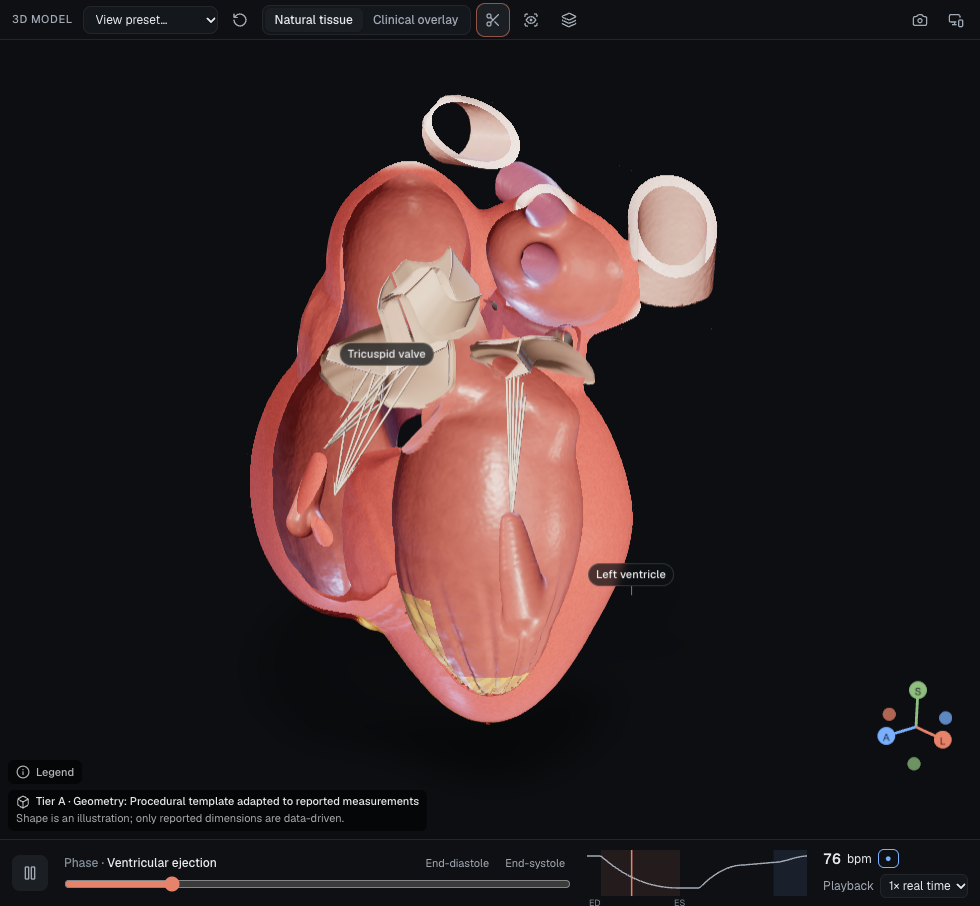
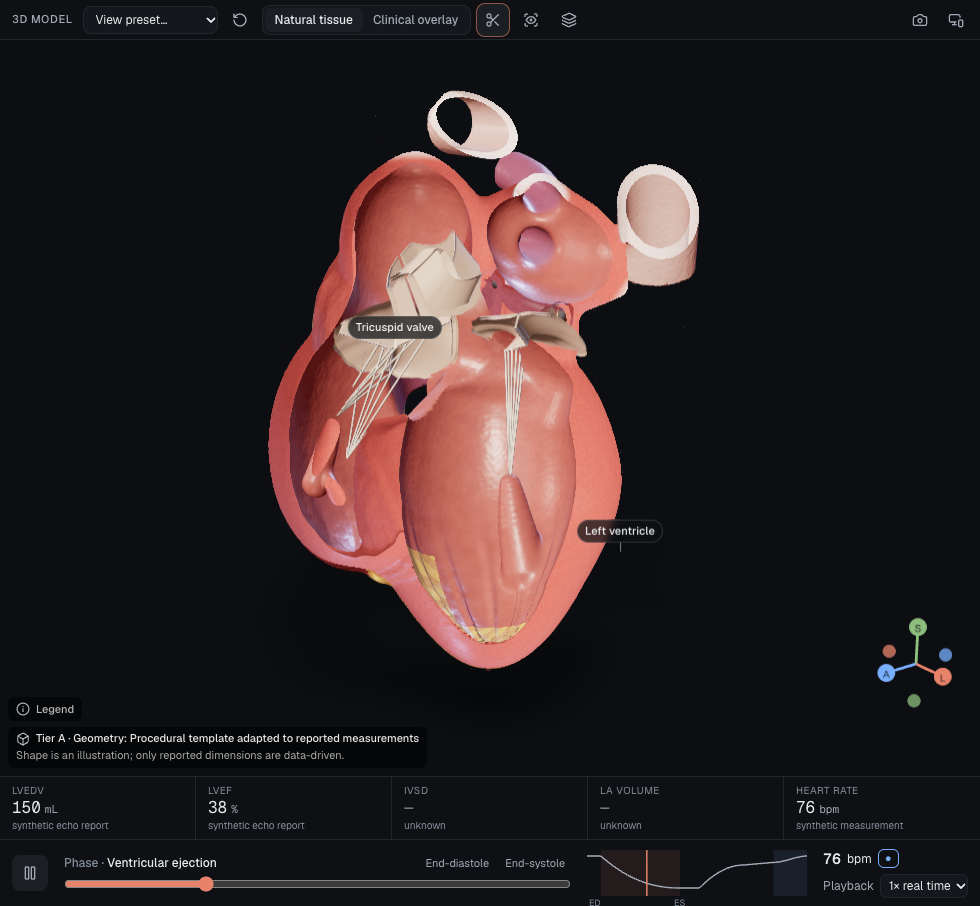
Professional design phase 2: metrics, collapsible inspector, camera focus
- Heart metric strip with the source of every number (CT segmentation volumes
  and derived LV mass for Tier B; reported values for Tier A, unknown as —)
- Inspector can be hidden from the app bar to widen the 3D view
- Brain: selecting a structure in the list turns the camera to it and makes
  the cortex see-through for deep structures
- e2e for the metrics, the inspector toggle and the auto see-through cortex

diff --git a/src/brain/BrainCanvas.tsx b/src/brain/BrainCanvas.tsx
@@ -1,8 +1,8 @@
 "use client";
 // 3D brain from the segmentation. Browser-only (next/dynamic, ssr: false).
-import { Canvas, type ThreeEvent } from "@react-three/fiber";
+import { Canvas, useFrame, useThree, type ThreeEvent } from "@react-three/fiber";
 import { GizmoHelper, GizmoViewport, OrbitControls } from "@react-three/drei";
-import { useEffect, useMemo } from "react";
+import { useEffect, useMemo, useRef } from "react";
 import * as THREE from "three";
 import { useBrain } from "./brainStore";
 import { appToVoxel, voxelToApp, type Vec3 } from "@/imaging/sliceGeometry";
@@ -124,6 +124,53 @@ function SlicePlanes({ data }: { data: BrainData }) {
   );
 }
 
+/** Centroid (app frame, cm) of every vertex carrying a structure's region id. */
+function regionCentroid(data: BrainData, index: number): THREE.Vector3 | null {
+  const c = new THREE.Vector3();
+  let n = 0;
+  for (const m of data.meshes) {
+    const reg = m.geometry.getAttribute("_region") as THREE.BufferAttribute;
+    const pos = m.geometry.getAttribute("position") as THREE.BufferAttribute;
+    for (let i = 0; i < reg.count; i++) {
+      if (Math.round(reg.getX(i) * 255) !== index) continue;
+      c.x += pos.getX(i); c.y += pos.getY(i); c.z += pos.getZ(i); n++;
+    }
+  }
+  return n ? c.divideScalar(n) : null;
+}
+
+/** Animates the orbit camera to look at a structure chosen in the list, from the side it is on. */
+function CameraFocus({ data }: { data: BrainData }) {
+  const request = useBrain((s) => s.focusRequest);
+  const { camera, controls } = useThree() as unknown as { camera: THREE.PerspectiveCamera; controls: { target: THREE.Vector3; update: () => void } | null };
+  const anim = useRef<{ fromPos: THREE.Vector3; toPos: THREE.Vector3; fromTarget: THREE.Vector3; toTarget: THREE.Vector3; t: number } | null>(null);
+  useEffect(() => {
+    if (!request || !controls) return;
+    const target = regionCentroid(data, request.index);
+    if (!target) return;
+    const st = data.manifest.structures[request.index - 1];
+    // look from outside the structure's side: lateral for one hemisphere, else from the structure's direction
+    const dir = target.clone();
+    if (st?.hemisphere === "left") dir.x += 6;
+    if (st?.hemisphere === "right") dir.x -= 6;
+    if (dir.lengthSq() < 1e-6) dir.set(0, 0.3, 1);
+    dir.normalize();
+    const distance = camera.position.distanceTo(controls.target);
+    anim.current = { fromPos: camera.position.clone(), toPos: target.clone().addScaledVector(dir, distance), fromTarget: controls.target.clone(), toTarget: target, t: 0 };
+  }, [request, data, camera, controls]);
+  useFrame((_, dt) => {
+    const a = anim.current;
+    if (!a || !controls) return;
+    a.t = Math.min(1, a.t + dt / 0.7);
+    const k = 1 - Math.pow(1 - a.t, 3);
+    camera.position.lerpVectors(a.fromPos, a.toPos, k);
+    controls.target.lerpVectors(a.fromTarget, a.toTarget, k);
+    controls.update();
+    if (a.t >= 1) anim.current = null;
+  });
+  return null;
+}
+
 export default function BrainCanvas({ data }: { data: BrainData }) {
   return (
     <Canvas
@@ -140,6 +187,7 @@ export default function BrainCanvas({ data }: { data: BrainData }) {
       <BrainMeshes data={data} />
       <SlicePlanes data={data} />
       <OrbitControls makeDefault enableDamping dampingFactor={0.12} minDistance={10} maxDistance={90} />
+      <CameraFocus data={data} />
       <GizmoHelper alignment="bottom-right" margin={[56, 56]}>
         <GizmoViewport axisColors={["#e8836b", "#8fbf7f", "#79b0ff"]} labels={["L", "S", "A"]} labelColor="#0b0d10" axisHeadScale={0.9} />
       </GizmoHelper>

diff --git a/src/components/workspace/HeartMetrics.tsx b/src/components/workspace/HeartMetrics.tsx
@@ -1,0 +1,62 @@
+"use client";
+// Key numbers under the 3D heart, each with where it comes from. Tier B: the CT segmentation's own
+// volumes; Tier A: the record's reported values. Unknown is shown as unknown, never as a default.
+import type { PatientEntry } from "@/lib/patients";
+import type { HeartAssetSpec } from "@/scene/asset-adapters/registry";
+
+interface Metric { label: string; value: string | null; unit: string; source: string }
+
+const MYOCARDIUM_G_PER_ML = 1.05;
+
+function fromCt(spec: HeartAssetSpec): Metric[] {
+  const st = Object.fromEntries((spec.manifest.imaging?.structures ?? []).map((s) => [s.key, s.volumeMl]));
+  const src = "CT segmentation · phase unknown";
+  const v = (k: string) => (st[k] != null ? st[k].toFixed(1) : null);
+  return [
+    { label: "LV cavity", value: v("lv_cavity"), unit: "mL", source: src },
+    { label: "LV mass", value: st.lv_myocardium != null ? (st.lv_myocardium * MYOCARDIUM_G_PER_ML).toFixed(0) : null, unit: "g", source: `derived: myocardium × ${MYOCARDIUM_G_PER_ML} g/mL` },
+    { label: "RV label", value: v("rv"), unit: "mL", source: "may include RV wall" },
+    { label: "Left atrium", value: v("la"), unit: "mL", source: src },
+    { label: "Right atrium", value: v("ra"), unit: "mL", source: src },
+  ];
+}
+
+function fromRecord(entry: PatientEntry): Metric[] {
+  const p = entry.patient;
+  const obs = (path: string) => {
+    const o = p.observations[`observations.${path}`];
+    return o && o.status === "ok" && o.value !== null ? { value: String(o.value), source: o.method ?? o.source ?? "reported" } : null;
+  };
+  const ef = obs("lvEjectionFraction");
+  const efDerived = p.derived.find((d) => d.id === "lvEfFromVolumes");
+  const metric = (label: string, path: string, unit: string): Metric => {
+    const o = obs(path);
+    return { label, value: o?.value ?? null, unit, source: o?.source ?? "not reported" };
+  };
+  return [
+    metric("LVEDV", "lvEndDiastolicVolume", "mL"),
+    ef ? { label: "LVEF", value: ef.value, unit: "%", source: ef.source }
+      : { label: "LVEF", value: efDerived ? String(efDerived.value) : null, unit: "%", source: efDerived ? "derived from volumes" : "not reported" },
+    metric("IVSd", "ivsThickness", "mm"),
+    metric("LA volume", "laVolume", "mL"),
+    metric("Heart rate", "heartRate", "bpm"),
+  ];
+}
+
+export function HeartMetrics({ entry, spec }: { entry: PatientEntry; spec: HeartAssetSpec }) {
+  const metrics = spec.manifest.imaging ? fromCt(spec) : fromRecord(entry);
+  return (
+    <div className="grid shrink-0 grid-cols-3 divide-x divide-line border-t border-line bg-panel md:grid-cols-5" data-testid="heart-metrics">
+      {metrics.map((m) => (
+        <div key={m.label} className="min-w-0 px-3 py-1.5" title={`${m.label}: ${m.source}`}>
+          <p className="truncate text-[10px] uppercase tracking-wider text-faint">{m.label}</p>
+          <p className="num text-[16px] leading-tight text-ink">
+            {m.value ?? <span className="text-faint">—</span>}
+            {m.value && <span className="ml-1 text-[11px] text-muted">{m.unit}</span>}
+          </p>
+          <p className="truncate text-[10px] text-faint">{m.value ? m.source : "unknown"}</p>
+        </div>
+      ))}
+    </div>
+  );
+}

diff --git a/src/components/workspace/Workspace.tsx b/src/components/workspace/Workspace.tsx
@@ -1,7 +1,7 @@
 "use client";
 import { useEffect } from "react";
 import dynamic from "next/dynamic";
-import { Brain, HeartPulse, Moon, ShieldCheck, Sun } from "lucide-react";
+import { Brain, HeartPulse, Moon, PanelRightClose, PanelRightOpen, ShieldCheck, Sun } from "lucide-react";
 import { useApp, type Module } from "@/state/store";
 import { loadSamples } from "@/lib/session";
 import { PatientLibrary } from "../patient/PatientLibrary";
@@ -26,6 +26,7 @@ export default function Workspace() {
   const dialog = useApp((s) => s.dialog);
   const set = useApp((s) => s.set);
   const organ = useApp((s) => s.module);
+  const inspectorOpen = useApp((s) => s.inspectorOpen);
 
   useEffect(() => { document.documentElement.dataset.theme = theme; }, [theme]);
   useEffect(() => {
@@ -61,18 +62,23 @@ export default function Workspace() {
           <span className="flex items-center gap-1 text-[11px] text-muted" title="Records are kept in memory for this tab only. Nothing is uploaded, stored in the browser, put in URLs, or logged.">
             <ShieldCheck className="h-3.5 w-3.5 text-ok" /> <span className="hidden lg:inline">Session-only</span>
           </span>
+          {organ === "heart" && (
+            <IconButton label={inspectorOpen ? "Hide inspector" : "Show inspector"} pressed={!inspectorOpen} onClick={() => set({ inspectorOpen: !inspectorOpen })}>
+              {inspectorOpen ? <PanelRightClose className="h-4 w-4" /> : <PanelRightOpen className="h-4 w-4" />}
+            </IconButton>
+          )}
           <IconButton label={theme === "dark" ? "Switch to light theme" : "Switch to dark theme"} onClick={() => set({ theme: theme === "dark" ? "light" : "dark" })}>
             {theme === "dark" ? <Sun className="h-4 w-4" /> : <Moon className="h-4 w-4" />}
           </IconButton>
         </div>
       </header>
       {organ === "brain" ? <main className="min-h-0 flex-1" aria-label="Brain workspace"><BrainWorkspace /></main> : (
-      <div className="grid min-h-0 flex-1 grid-cols-1 grid-rows-[minmax(420px,68dvh)_auto_auto] overflow-y-auto lg:grid-cols-[260px_minmax(0,1fr)_360px] lg:grid-rows-1 lg:overflow-hidden">
+      <div className={`grid min-h-0 flex-1 grid-cols-1 grid-rows-[minmax(420px,68dvh)_auto_auto] overflow-y-auto lg:grid-rows-1 lg:overflow-hidden ${inspectorOpen ? "lg:grid-cols-[260px_minmax(0,1fr)_360px]" : "lg:grid-cols-[260px_minmax(0,1fr)]"}`}>
         <div className="order-2 min-h-0 border-line bg-panel lg:order-1 lg:border-r"><PatientLibrary /></div>
         <main className="order-1 min-h-0 lg:order-2" aria-label="3D heart workspace">
           {workspace === "compare" ? <CompareWorkspace /> : <HeartViewport />}
         </main>
-        <div className="order-3 min-h-0 border-line bg-panel lg:border-l"><Inspector /></div>
+        {inspectorOpen && <div className="order-3 min-h-0 border-line bg-panel lg:border-l"><Inspector /></div>}
       </div>
       )}
       {dialog?.kind === "import" && <ImportDialog />}

diff --git a/tests/e2e/tier-b.spec.ts b/tests/e2e/tier-b.spec.ts
@@ -33,6 +33,11 @@ test("a CT-derived heart (Tier B) renders with its provenance", async ({ page })
   await page.waitForTimeout(1500);
   await viewport(page).screenshot({ path: `${shots}/e2e-tier-b-s0270-four-chamber.png` });
 
+  // key numbers come from the segmentation, with their source
+  await expect(page.getByTestId("heart-metrics")).toContainText("LV cavity");
+  await expect(page.getByTestId("heart-metrics")).toContainText("126.5");
+  await expect(page.getByTestId("heart-metrics")).toContainText("CT segmentation");
+
   // source CT evidence: three planes, crosshair shared between them
   await expect(page.getByTestId("ct-evidence")).toBeVisible();
   for (const v of ["axial", "coronal", "sagittal"]) await expect(page.getByTestId(`slice-${v}`)).toBeVisible();
@@ -80,4 +85,18 @@ test("comparison mixes a procedural and a CT heart", async ({ page }) => {
   await page.waitForTimeout(1500);
   await page.getByTestId("compare").screenshot({ path: `${shots}/e2e-tier-b-compare.png` });
   expect(errors).toEqual([]);
+});
+
+test("the inspector can be collapsed to widen the 3D view", async ({ page }) => {
+  await openCtCase(page, "s0270");
+  const before = (await viewport(page).boundingBox())!.width;
+  await page.getByRole("button", { name: "Hide inspector" }).click();
+  await expect(page.getByRole("complementary", { name: "Inspector" })).toHaveCount(0);
+  await expect.poll(async () => (await viewport(page).boundingBox())!.width).toBeGreaterThan(before + 200);
+  const start = await frames(page);
+  await expect.poll(async () => (await frames(page)) - start, { timeout: 30_000 }).toBeGreaterThan(30);
+  await page.waitForTimeout(1200);
+  await page.getByRole("main").screenshot({ path: `${shots}/e2e-tier-b-wide.png` });
+  await page.getByRole("button", { name: "Show inspector" }).click();
+  await expect(page.getByRole("complementary", { name: "Inspector" })).toBeVisible();
 });

diff --git a/src/brain/StructurePanel.tsx b/src/brain/StructurePanel.tsx
@@ -47,7 +47,13 @@ export function StructurePanel({ data }: { data: BrainData }) {
   const q = query.trim().toLowerCase();
   const groups = useMemo(() => GROUPS.map((g) => ({ ...g, items: structures.filter((x) => g.match(x) && (!q || x.name.toLowerCase().includes(q))) })), [structures, q]);
 
-  const select = (st: BrainStructure) => s.set({ selected: st.index, crosshair: centroidOf(data, st.index) ?? s.crosshair });
+  const select = (st: BrainStructure) => s.set({
+    selected: st.index,
+    crosshair: centroidOf(data, st.index) ?? s.crosshair,
+    focusRequest: { index: st.index, nonce: (s.focusRequest?.nonce ?? 0) + 1 },
+    // deep structures sit inside the cortex: make it see-through so the selection is visible
+    ...(st.group !== "cortex" && s.cortexOpacity > 0.5 ? { cortexOpacity: 0.2 } : {}),
+  });
 
   return (
     <aside className="flex h-full min-h-0 flex-col" aria-label="Brain structures">

diff --git a/tests/e2e/brain.spec.ts b/tests/e2e/brain.spec.ts
@@ -26,6 +26,8 @@ test("brain module: 3D model, MRI slices with segmentation, linked crosshair", a
   await page.getByRole("button", { name: /^Hippocampus \(left\)/ }).click();
   await expect(page.getByTestId("brain-selection")).toContainText("Hippocampus (left)");
   await expect(page.getByTestId("brain-selection")).toContainText("Automatically (FreeSurfer)");
+  // a deep structure chosen from the list makes the cortex see-through (and the camera turns to it)
+  await expect(page.getByRole("slider", { name: "Cortex opacity" })).toHaveValue("0.2");
   await page.waitForTimeout(1500);
   await page.getByTestId("brain-workspace").screenshot({ path: `${shots}/e2e-brain-hippocampus.png` });
 

diff --git a/src/components/workspace/HeartViewport.tsx b/src/components/workspace/HeartViewport.tsx
@@ -13,6 +13,7 @@ import { PlaybackBar } from "./PlaybackBar";
 import { Legend } from "./Legend";
 import { GeometryBadge } from "./GeometryBadge";
 import { CtEvidencePanel } from "./CtEvidencePanel";
+import { HeartMetrics } from "./HeartMetrics";
 
 const HeartCanvas = dynamic(() => import("@/scene/HeartCanvas"), { ssr: false });
 
@@ -82,6 +83,7 @@ export function HeartViewport() {
             <GeometryBadge spec={spec} />
           </div>
         </div>
+        <HeartMetrics entry={entry} spec={spec} />
         <PlaybackBar />
       </div>
       {spec.manifest.imaging && <CtEvidencePanel spec={spec} />}

diff --git a/src/brain/brainStore.ts b/src/brain/brainStore.ts
@@ -11,6 +11,8 @@ export interface BrainState {
   hidden: Set<number>;
   cortexOpacity: number; // 0..1
   showPlanes: boolean;
+  /** Turn the 3D camera toward a structure (set when it is chosen from the list). */
+  focusRequest: { index: number; nonce: number } | null;
   overlay: "fill" | "outline" | "off";
   overlayOpacity: number;
   windowCenter: number;
@@ -26,6 +28,7 @@ export const useBrain = create<BrainState>((set) => ({
   hidden: new Set(),
   cortexOpacity: 1,
   showPlanes: true,
+  focusRequest: null,
   overlay: "fill",
   overlayOpacity: 0.35,
   windowCenter: 128,

diff --git a/src/state/store.ts b/src/state/store.ts
@@ -26,6 +26,8 @@ export type Module = "heart" | "brain";
 export interface AppState {
   /** Organ module shown in the workspace. */
   module: Module;
+  /** Heart module: right-hand inspector panel shown (collapse to widen the 3D view). */
+  inspectorOpen: boolean;
   entries: Record<string, PatientEntry>;
   order: string[];
   selectedKey: string | null;
@@ -67,6 +69,7 @@ export interface AppState {
 
 export const useApp = create<AppState>((set, get) => ({
   module: "heart",
+  inspectorOpen: true,
   entries: {},
   order: [],
   selectedKey: null,

diff --git a/docs/design-system.md b/docs/design-system.md
@@ -42,3 +42,11 @@ body/data, 13 px controls, 15 px titles. Numbers always `.num` (tabular).
 - Viewports: toolbar docked in the panel header, playback docked as the panel footer, corner text for
   provenance; legend collapsed by default.
 - MPR evidence column on the right (brain MRI, heart CT) with colour-coded plane headers and crosshairs.
+
+## Phase 2 (implemented)
+
+- Metric strip under each 3D view: brain totals; heart key numbers with their source on every cell
+  (Tier B: CT segmentation volumes, LV mass derived ×1.05 g/mL; Tier A: reported values, unknown shown as "—").
+- Inspector collapses from the app bar to widen the 3D view.
+- Brain: choosing a structure in the list turns the camera to it (from its hemisphere's side) and makes
+  the cortex see-through for deep structures.
